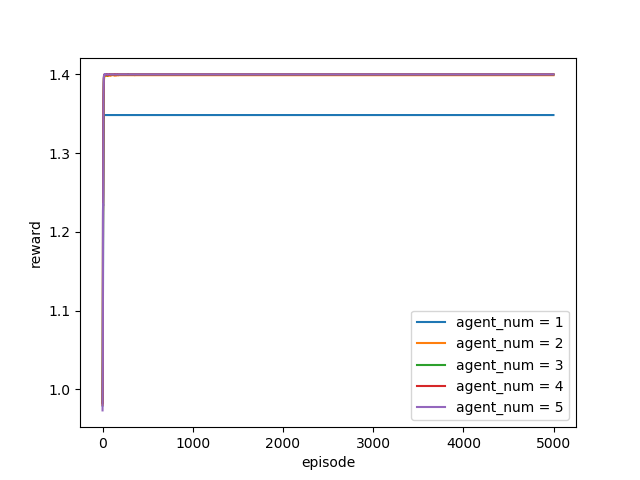
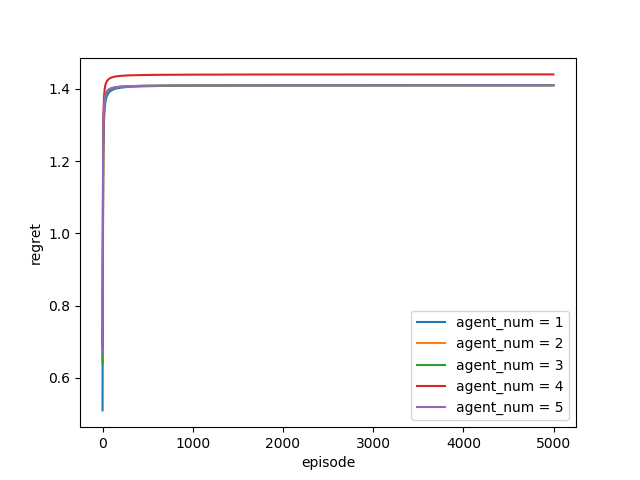
並列処理をテスト実装

diff --git a/test.py b/test.py
@@ -1,3 +1,152 @@
 import numpy as np
+import matplotlib.pyplot as plt
+import math
+from joblib import Parallel, delayed
+from time import time
+import environment as en
+import agent as ag
 
+
+def simulation2(simulation_num, episode_num, layer_num):
+    labels = ["agent_num = 1", "agent_num = 2", "agent_num = 3", "agent_num = 4", "agent_num = 5"]
+    # labels = ["agent_num = 3"]
+    agent_num = (len(labels))
+    accuracy = np.zeros((agent_num, episode_num))
+    regrets = np.zeros((agent_num, episode_num))
+    reward = np.zeros((agent_num, episode_num))
+    r_share = np.zeros((agent_num, episode_num))
+    action_num = 4
+    state_num = sum([int(math.pow(action_num, i)) for i in range(layer_num)]) + 1
+    end_state = state_num - 1
+    tree_bandit = en.Deterministic_Tree_Bandit(layer_num, action_num)
+
+    agent_list = [ag.RS_multi('ql', state_num, action_num, 1),
+                  ag.RS_multi('ql', state_num, action_num, 2),
+                  ag.RS_multi('ql', state_num, action_num, 3),
+                  ag.RS_multi('ql', state_num, action_num, 4),
+                  ag.RS_multi('ql', state_num, action_num, 5)]
+    # agent_list = [ag.RS_multi('ql', state_num, action_num, 3)]
+
+    for sim in range(simulation_num):
+        print(sim + 1)
+        tree_bandit.construction_tree_bandit(layer_num)
+
+        for i, agent in enumerate(agent_list):
+            agent.reset_params()
+            regret = 0
+
+            for epi in range(episode_num):
+                reward_sums = np.zeros(agent.agent_num)
+                step = 1
+                current_states = np.zeros(agent.agent_num, dtype=np.int32)
+
+                while current_states[0] < end_state:
+                    # 腕の選択
+                    current_actions = agent.select_arm(current_states)
+                    # 報酬の観測
+                    rewards = tree_bandit.get_reward(current_states, current_actions)
+                    reward_sums += np.array(rewards)
+                    # 次状態の観測
+                    next_states = np.array([], dtype=np.int32)
+                    for i in range(agent.agent_num):
+                        next_states = np.append(next_states, current_states[i] * action_num + current_actions[i] + 1)
+                    if next_states[0] > (state_num - 2):
+                        next_states.fill(end_state)
+                    # 価値の更新
+                    agent.update(current_states, current_actions, rewards, next_states, step)
+                    # 状態の更新
+                    current_states = next_states
+                    step += 1
+
+                # update r
+                agent.update_r()
+                # accuracy
+                accuracy[i][epi] += tree_bandit.get_correct(reward_sums)
+                # regret
+                regret += tree_bandit.get_regret(reward_sums)
+                regrets[i][epi] += regret
+                # reward
+                reward[i][epi] += np.sum(reward_sums) / agent.agent_num
+                # r_share
+                r_share[i][epi] += agent.get_r()
+
+    return np.array([accuracy, regrets, reward, r_share])
+
+# accuracy /= simulation_num
+# regrets /= simulation_num
+# r_share /= simulation_num
+# reward /= simulation_num
+#
+# plt.xlabel('episode')
+# plt.ylabel('accuracy')
+# # plt.xscale("log")
+# plt.ylim([0.0, 1.1])
+# for i, graph in enumerate(accuracy):
+#         plt.plot(graph, label=labels[i])
+#     plt.legend(loc="best")
+#     plt.savefig("1")
+#     plt.show()
+#
+#     plt.xlabel('episode')
+#     plt.ylabel('regret')
+#     # plt.xscale("log")
+#     for i, graph in enumerate(regrets):
+#         plt.plot(graph, label=labels[i])
+#     plt.legend(loc="best")
+#     plt.savefig("1")
+#     plt.show()
+#
+#     plt.xlabel('episode')
+#     plt.ylabel('r')
+#     # plt.xscale("log")
+#     for i, graph in enumerate(r_share):
+#         plt.plot(graph, label=labels[i])
+#     plt.legend(loc="best")
+#     plt.savefig("1")
+#     plt.show()
+#
+#     plt.xlabel('episode')
+#     plt.ylabel('reward')
+#     # plt.xscale("log")
+#     for i, graph in enumerate(reward):
+#         plt.plot(graph, label=labels[i])
+#     plt.legend(loc="best")
+#     plt.savefig("1")
+#     plt.show()
+#
+
+
+def plot_graph(data, agent_num, data_type_num, episode_num, job_num):
+    for i in range(data_type_num):
+        graphs = np.zeros((agent_num, episode_num))
+
+        for j in range(job_num):
+            graphs += data[j][i]
+
+        # graphs /= simulation_num
+        # plt.xlabel('episode')
+        # plt.ylabel(graph_titles[i])
+        # # plt.xscale("log")
+        # for g, graph in enumerate(graphs):
+        #    plt.plot(graph, label=labels[g])
+        # plt.legend(loc="best")
+        # plt.savefig(graph_titles[i])
+        # plt.show()
+
+simulation_num = 100
+job_num = 1
+simulation_num_per_job = int(simulation_num / job_num)
+episode_num = 5000
+agent_num = 5
+data_type_num = 4
+layer_num = 2
+labels = ["agent_num = 1", "agent_num = 2", "agent_num = 3", "agent_num = 4", "agent_num = 5"]
+graph_titles = ["accuracy", "regret", "reward", "r"]
+
+start = time()
+
+data = Parallel(n_jobs=job_num)([delayed(simulation2)(simulation_num_per_job, episode_num, layer_num) for i in range(job_num)])
+plot_graph(data, agent_num, data_type_num, episode_num, job_num)
+
+print('{}秒かかりました'.format(time() - start))
 

diff --git a/test2.py b/test2.py
@@ -1,0 +1,18 @@
+from joblib import Parallel, delayed
+from multiprocessing import Value, Array
+from time import time
+
+# -*- coding: utf-8 -*-
+from joblib import Parallel, delayed
+from multiprocessing import Value, Array
+
+shared_int = Value('i', 1)
+
+def process(n):
+    shared_int.value = 3.14
+    return sum([i*n for i in range(100000)])
+
+# 繰り返し計算 (並列化)
+Parallel(n_jobs=10)( [delayed(process)(i) for i in range(10000)] )
+
+print(shared_int.value)
